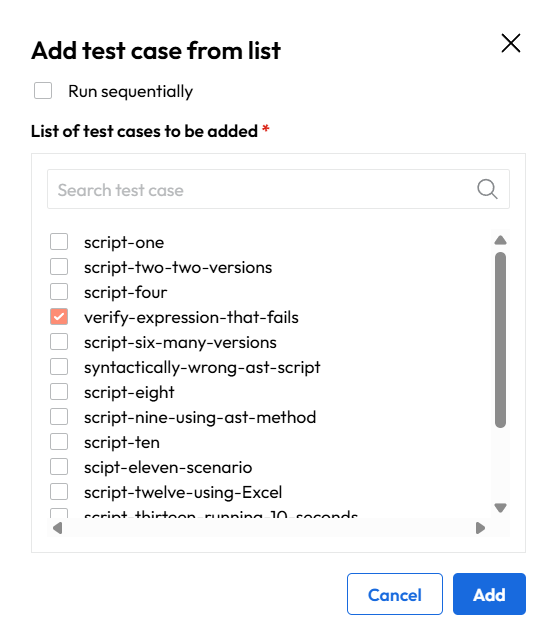
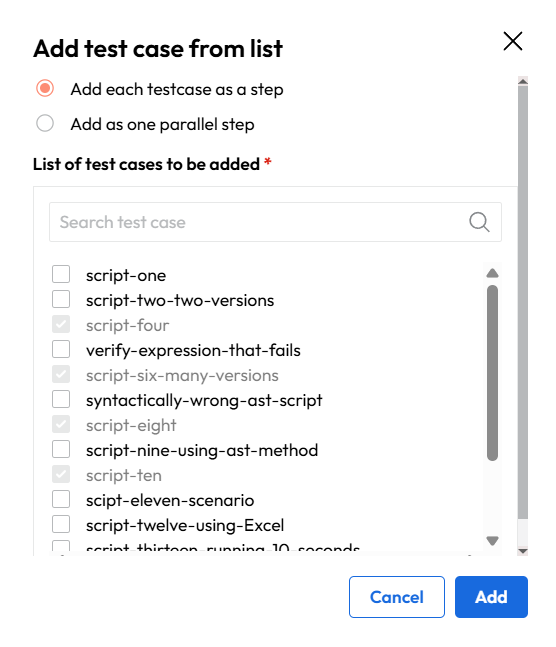
add test dialog changes and run sequentially changes

diff --git a/docs/test_sets.md b/docs/test_sets.md
@@ -46,18 +46,7 @@ The trash can icon always removes just one test case
 ![testset-edit.png](assets/ControlPanelDocu/testset-edit.png)
 <figcaption>Highlight of the add and remove buttons.</figcaption>
 
-When adding testcases a dialog appears. In the Add Test Case dialog, test cases that are already included in the test set are preselected.
-To add new test cases, select them and click Add.
-
-!!!warning "Important"
-    Existing test cases are preselected; keep them checked if you want to retain them in the test set, as unchecking them will remove them.
-
-If the Run sequentially checkbox is selected, new test cases are added as separate steps. 
-If it is not selected, the new test cases are added together as a single parallel step.
-
-![testset-add-dialog.png](assets/ControlPanelDocu/testset-add-dialog.png)
-<figcaption>Dialog for adding testcases to test set with a preselected testcase</figcaption>
-
+For more details on the topic of adding testcases check out the chapter [Add test cases to already existing test set](#add-test-cases-to-already-existing-test-set).
 
 ##### Sequence of execution
 
@@ -152,6 +141,10 @@ The window lists the individual Test Cases included in the run. For each case, t
 To create a test set you can use the *Create Test Set* button in the Test Sets screen or you can use the *Create New* in the Tests screen.
 Then a dialog will appear where you can set up the name, description and select test cases that will be part of this set.
 
+If the *Add each testcase as a step* radio button is selected the newly selected test cases are each added as separate steps.
+
+If the *Add as one parallel step* radio button is selected then all of the selected testcases will be added as one parallel step.
+
 ![test_set_create.png](assets/ControlPanelDocu/test_set_create.png)
 <figcaption>Dialog for test set creation</figcaption>
 
@@ -162,9 +155,13 @@ In this case the same dialog appears but with already preselected testcase or al
 In the Test set view in an open test set you can click on the *Edit* button in the Definitions tab.
 This will enable editing of the test set. Then you click on the *Add test case* button which will open a dialog from which you can select a test case that will be added to this set.
 
-It also shows all the testcases that are present in this set. You can also remove test cases from this set by unchecking them in the list.
-![test_set_add_case.png](assets/ControlPanelDocu/test_set_add_case.png)
-<figcaption>Dialog for adding a test case</figcaption>
+In the Add Test Case dialog, test cases that are already included in the test set are preselected and greyed out.
+To add new test cases, select them and click Add.
+
+For the meaning of the *Add each testcase as a step* and *Add as one parallel step*, check [Add new test set](#add-new-test-set).
+
+![testset-add-dialog.png](assets/ControlPanelDocu/testset-add-dialog.png)
+<figcaption>Dialog for adding a test case with greyed out testcases</figcaption>
 
 Another option is to use the context menu for the [folders](test_case_repository.md#folder-context-menu) and [testcases](test_case_repository.md#test-case-context-menu) in the test case screen.
 Then you choose add to existing test set and then select the test set to which you want to add this test case or folder.

diff --git a/docs/release_notes.md b/docs/release_notes.md
@@ -20,8 +20,8 @@
 #### Other
 
 - Visual tweaks to test set editor
-- Improved selection behavior in the Add Test Case dialog 
-- Run sequentially checkbox changed to radio buttons for better clarity
+- Improved selection behavior in the Add Test Case dialog. [Read more](test_sets.md#add-new-test-set)
+- Run sequentially checkbox changed to radio buttons for better clarity. [Read more](test_sets.md#add-test-cases-to-already-existing-test-set)
 - Test sets are ordered alphabetically
 - Replaced stop execution icon
 - Removed test case list from the schedule dialog on the test set screen
